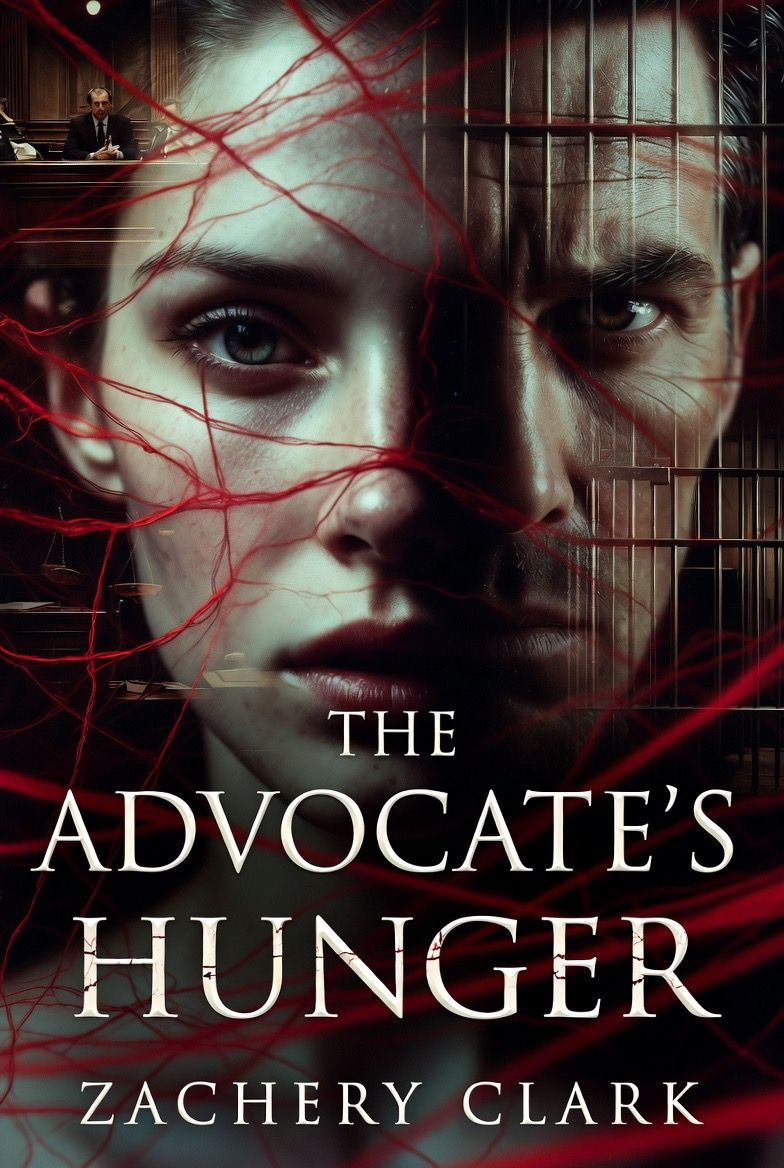
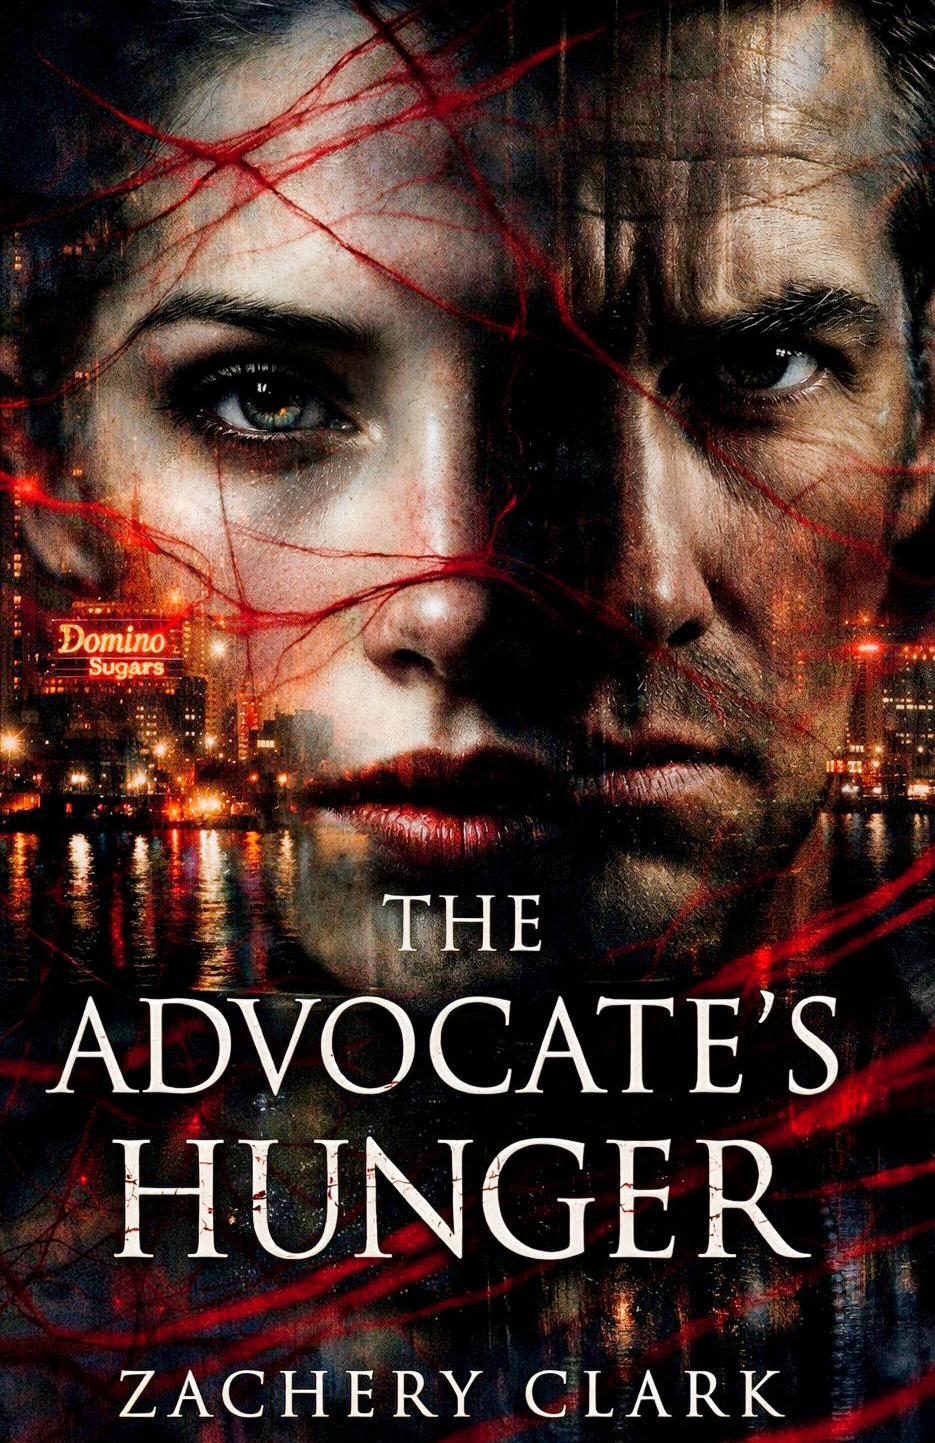
added goodreads widget support and new cover for advocate's hunger

diff --git a/widgettest.html b/widgettest.html
@@ -1,0 +1,54 @@
+<style>
+    #goodreads-widget {
+        font-family: georgia, serif;
+        padding: 18px 0;
+        width: 575px;
+    }
+
+    #goodreads-widget h1 {
+        font-weight: normal;
+        font-size: 16px;
+        border-bottom: 1px solid #BBB596;
+        margin-bottom: 0;
+    }
+
+    #goodreads-widget a {
+        text-decoration: none;
+        color: #660;
+    }
+
+    iframe {
+        background-color: #ffffff;
+    }
+
+    #goodreads-widget a:hover {
+        text-decoration: underline;
+    }
+
+    #goodreads-widget a:active {
+        color: #660;
+    }
+
+    #gr_footer {
+        width: 100%;
+        border-top: 1px solid #BBB596;
+        text-align: right;
+    }
+
+    #goodreads-widget .gr_branding {
+        color: #382110;
+        font-size: 11px;
+        text-decoration: none;
+        font-family: "Helvetica Neue", Helvetica, Arial, sans-serif;
+    }
+</style>
+<div id="goodreads-widget">
+    <iframe sandbox="allow-scripts allow-popups" id="the_iframe"
+        src="https://www.goodreads.com/api/reviews_widget_iframe?did=DEVELOPER_ID&format=html&header_text=&isbn=9798307730959&links=660&min_rating=&num_reviews=1&review_back=fff&stars=000000&stylesheet=&text=444"
+        width="575" height="185" frameborder="0"></iframe>
+    <div id="gr_footer">
+        <a class="gr_branding" target="_blank" rel="nofollow noopener noreferrer"
+            href="https://www.goodreads.com/book/show/229020700-mayhem-at-midnight?utm_medium=api&utm_source=reviews_widget">Reviews
+            from Goodreads.com</a>
+    </div>
+</div>
